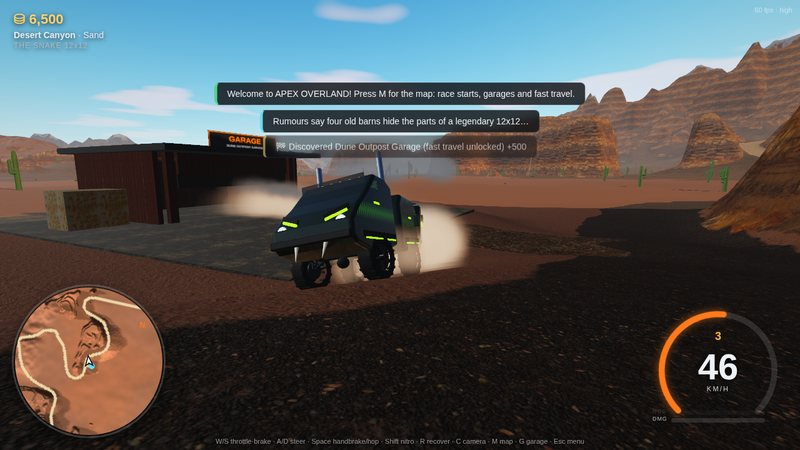
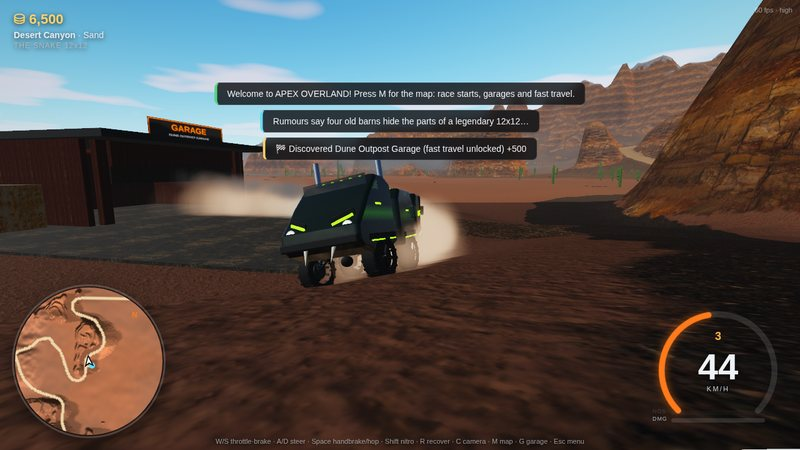
The Snake: shorter segments and couplings, 14.1 m overall (was 16.0 m)
Six 1.95 m single-axle segments on 0.48 m couplings. AI sim: the Snake finishes all 20 races.

diff --git a/src/vehicles/defs.ts b/src/vehicles/defs.ts
@@ -21,7 +21,7 @@ export interface VehicleDef {
 }
 
 /** The Snake: six single-axle segments on five articulation joints (hinge GAP metres apart, module ends to hinge = GAP/2). */
-export const SNAKE_MODS = 6, SNAKE_GAP = 0.56;
+export const SNAKE_MODS = 6, SNAKE_GAP = 0.48;
 export const modsOf = (d: { special?: string }) => (d.special === 'snake' ? SNAKE_MODS : 1);
 const axle = (z: number, half: number, steer: number, drive = true): WheelDef[] => [{ x: half, z, steer, drive }, { x: -half, z, steer, drive }];
 
@@ -87,7 +87,7 @@ export const VEHICLES: VehicleDef[] = [
     wheels: [...axle(3.15, 2.2, 1), ...axle(-2.6, 2.2, 0)],
     susp: { rest: 1.25, travel: 0.6, stiff: 26, damp: 3.4 }, grip: 1.49, steerMax: 0.5, color: '#f2c200', color2: '#2a2a2a', plowable: true, heavy: true, intake: 4.5 },
   { id: 'snake', name: 'THE SNAKE 12x12', cls: 'Secret', body: 'snake', special: 'snake', price: 0, blurb: 'Six single-axle segments on five hydraulic articulation joints: twelve driven wheels that slither over anything. Assembled from four barn finds.',
-    mass: 2100, power: 520, top: 37, len: 2.25, wid: 2.3, hgt: 1.9, ride: 0.38, wheelR: 0.58, wheelW: 0.42,
+    mass: 2100, power: 520, top: 37, len: 1.95, wid: 2.3, hgt: 1.9, ride: 0.38, wheelR: 0.56, wheelW: 0.42,
     wheels: [...axle(0, 1.0, 1)],
     susp: { rest: 0.7, travel: 0.55, stiff: 27, damp: 2.8 }, grip: 1.49, steerMax: 0.5, color: '#10261b', color2: '#1d3a28', plowable: true, heavy: true, intake: 2.2 },
 ];
